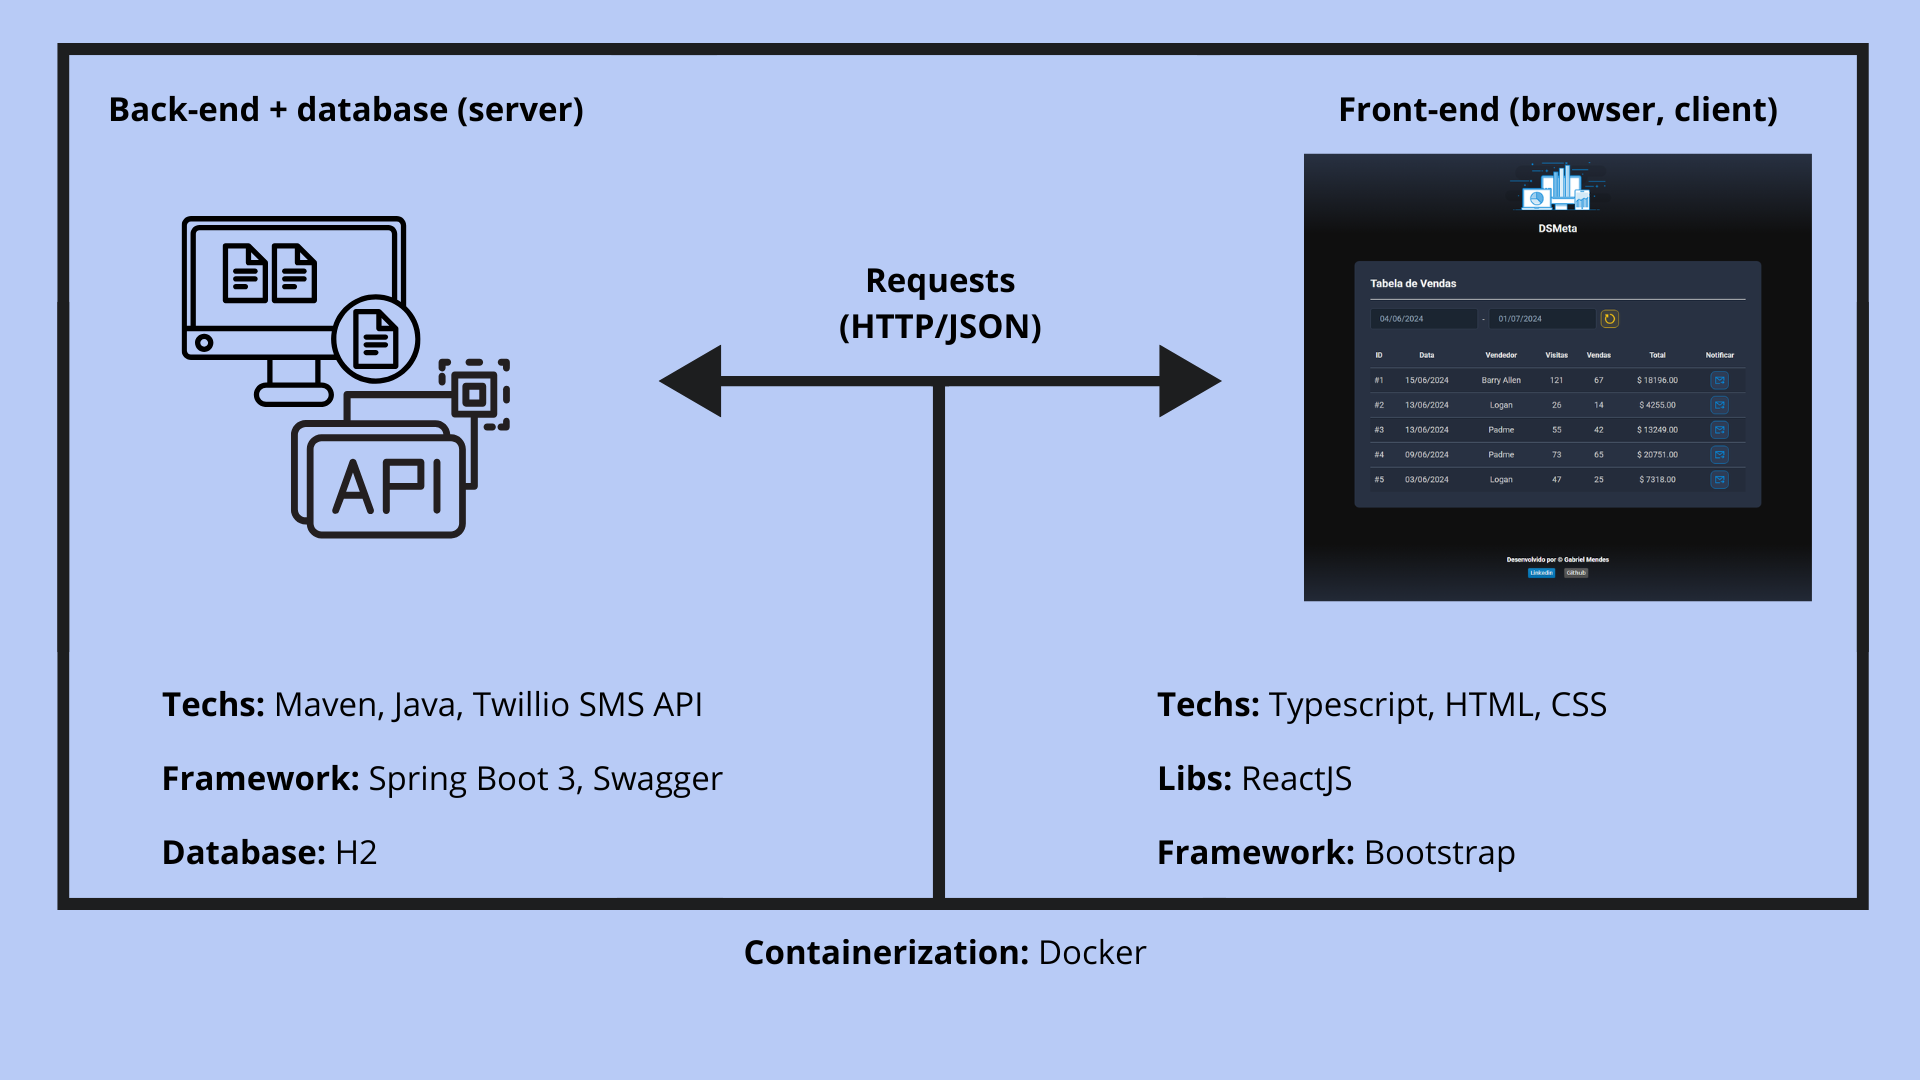
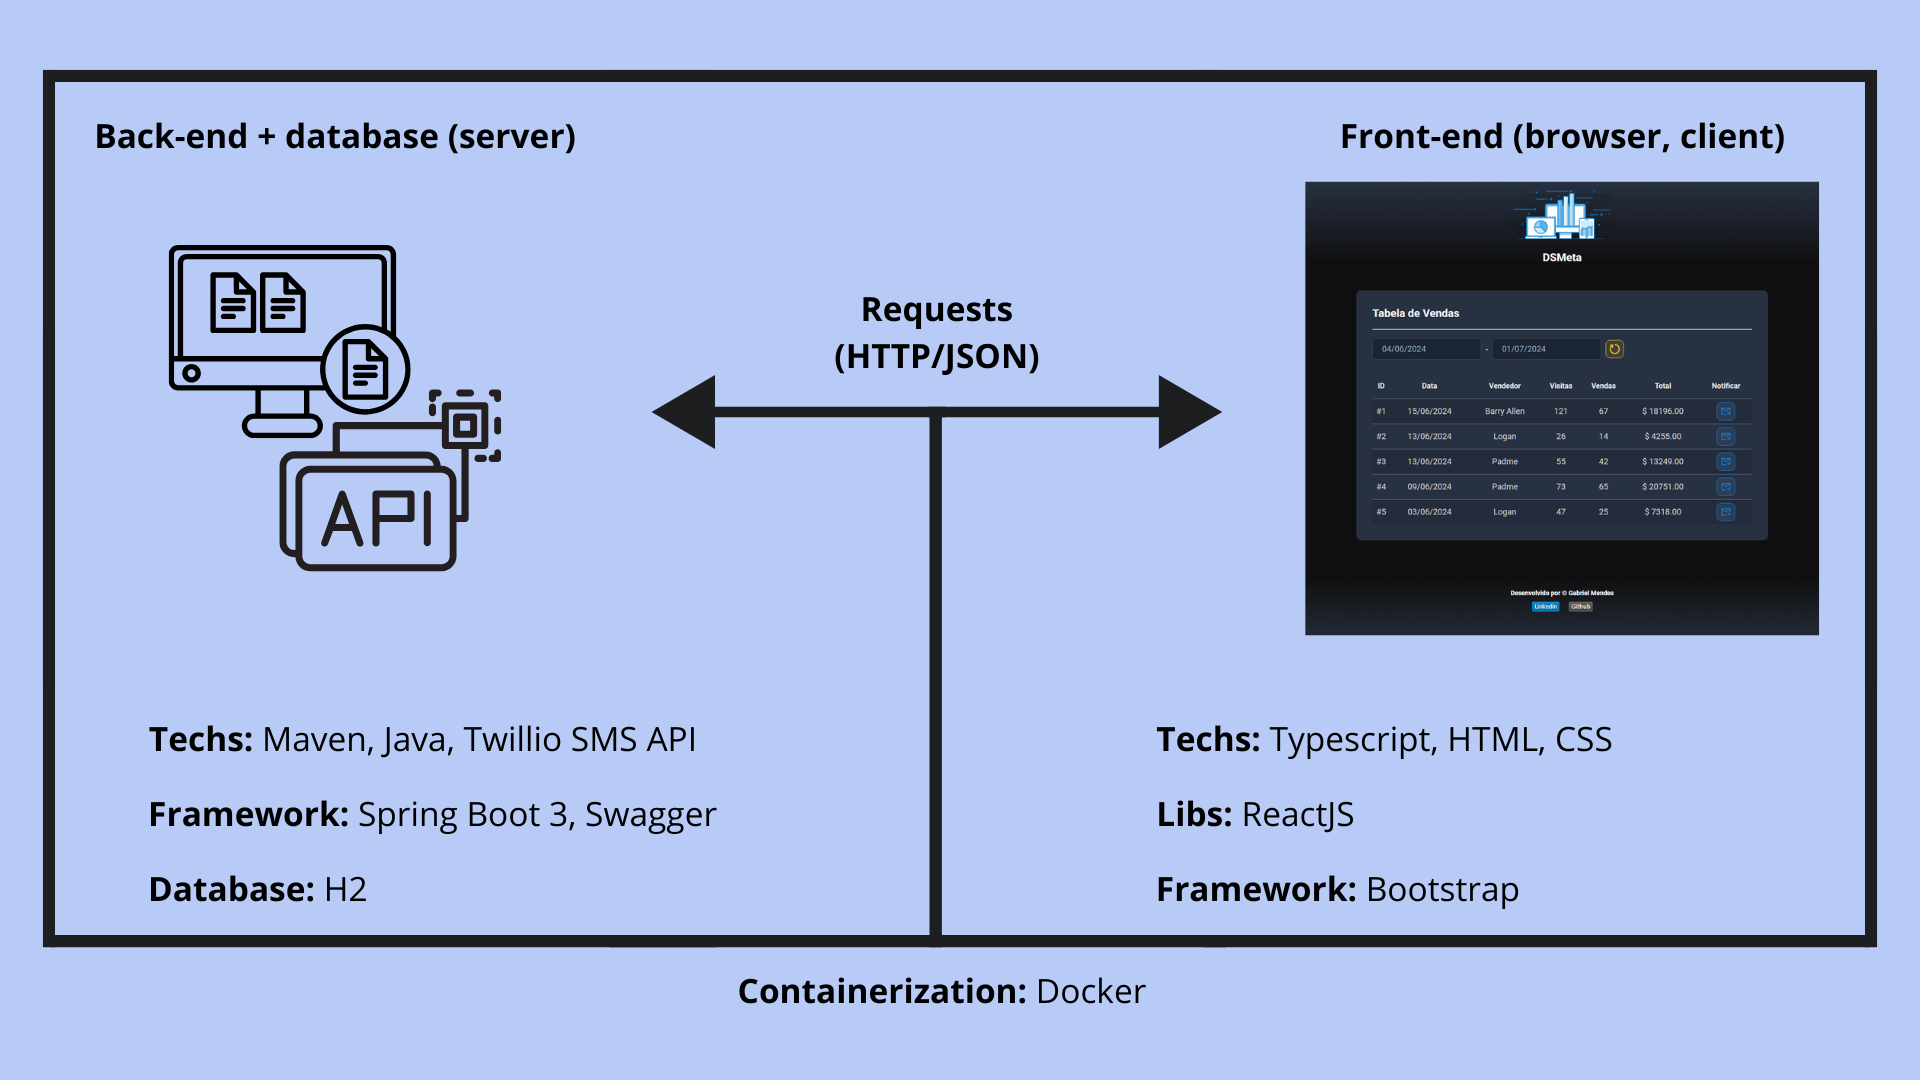
Update README

Changed region(s): [[0.0, 0.0306, 1.0, 0.9472]]

diff --git a/frontend/src/components/SalesCard/index.tsx b/frontend/src/components/SalesCard/index.tsx
@@ -95,7 +95,7 @@ function SalesCard() {
                                 <>
                                     <tr>
                                         <td className="show992">#341</td>
-                                        <td className="show576">23/07/2024</td>
+                                        <td className="show576">29/01/2024</td>
                                         <td>Bruce Wayne</td>
                                         <td className="show992">54</td>
                                         <td className="show992">26</td>
@@ -112,10 +112,23 @@ function SalesCard() {
                                         <td>Clark Kent</td>
                                         <td className="show992">34</td>
                                         <td className="show992">17</td>
-                                        <td>R$ 66400.00</td>
+                                        <td>$ 66400.00</td>
                                         <td>
                                             <div className="dsmeta-red-btn-container">
                                                 <NotificationButton saleId={2}/>
+                                            </div>
+                                        </td>
+                                    </tr>
+                                    <tr>
+                                        <td className="show992">#78</td>
+                                        <td className="show576">10/07/2024</td>
+                                        <td>Barry Allen</td>
+                                        <td className="show992">50</td>
+                                        <td className="show992">23</td>
+                                        <td>$ 75400.00</td>
+                                        <td>
+                                            <div className="dsmeta-red-btn-container">
+                                                <NotificationButton saleId={3}/>
                                             </div>
                                         </td>
                                     </tr>

diff --git a/README.md b/README.md
@@ -6,6 +6,10 @@ App de listagem de vendas Multiplataforma com as tecnologias mais demandadas do 
 
 <img width="600px" src="./utils/landing-page.png"/>
 
+<br>
+
+<img width="600px" src="./utils/modal.png"/>
+
 </div>
 
 > ##### Acesse o deploy da aplicação [clicando aqui 🖥](https://github.com/Biellms)
@@ -28,7 +32,7 @@ DSMeta é uma aplicação full-stack web e mobile desenvolvida durante a aulas d
 
 #### **Escopo do projeto** ⚙
 
-<img width="600px" src="./utils/project-scope.png"/>
+<img width="500px" src="./utils/project-scope.png"/>
 
 </div>
 
